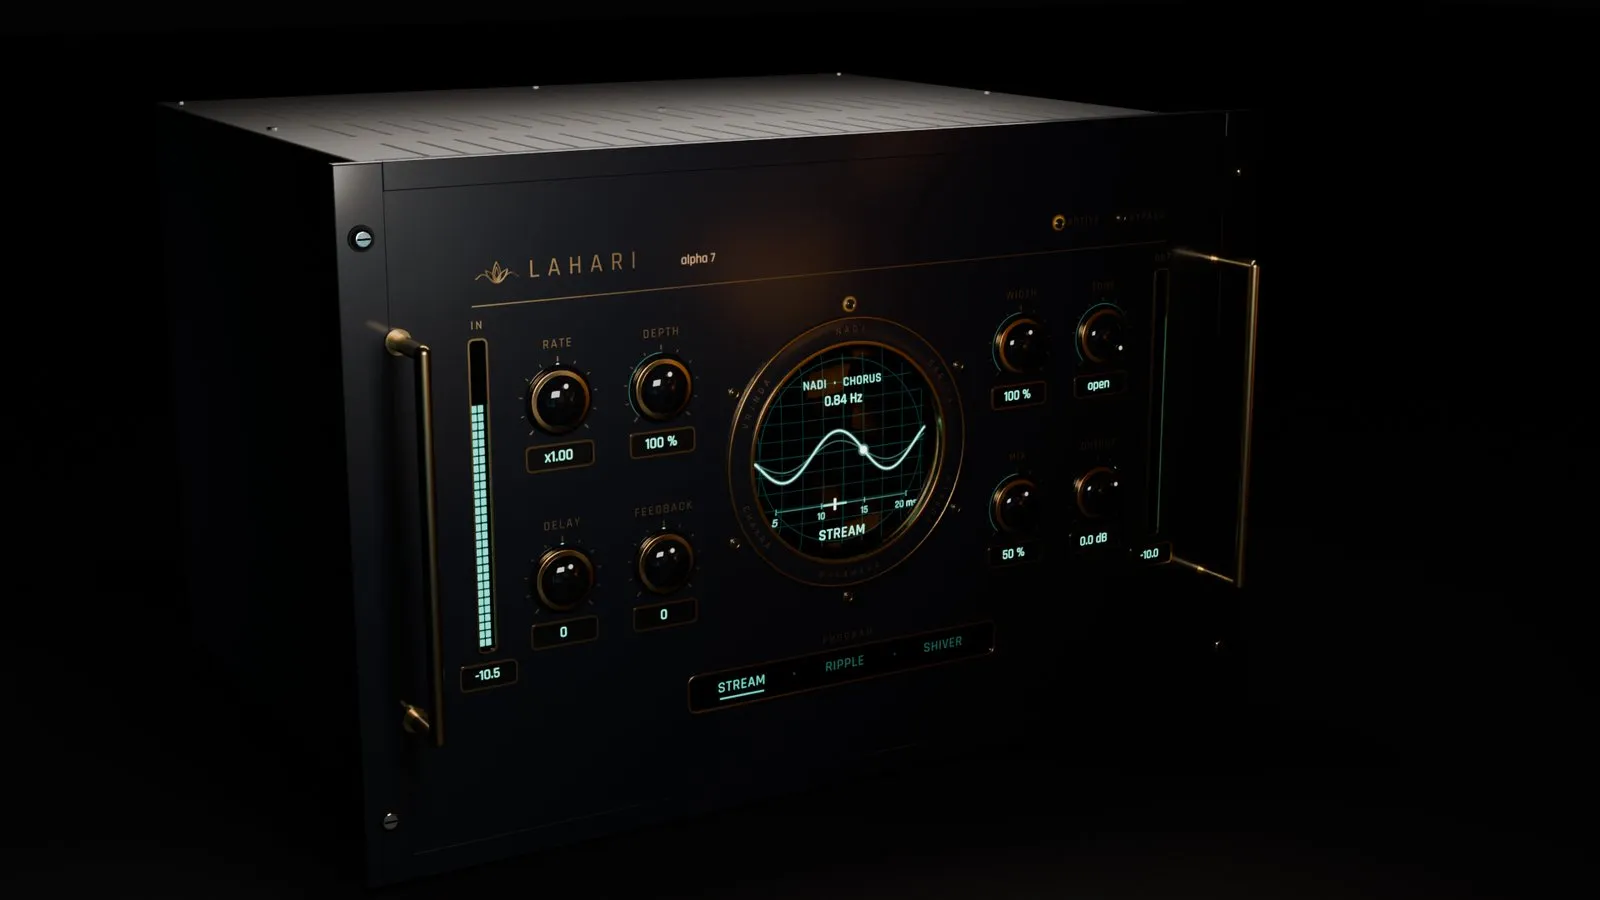
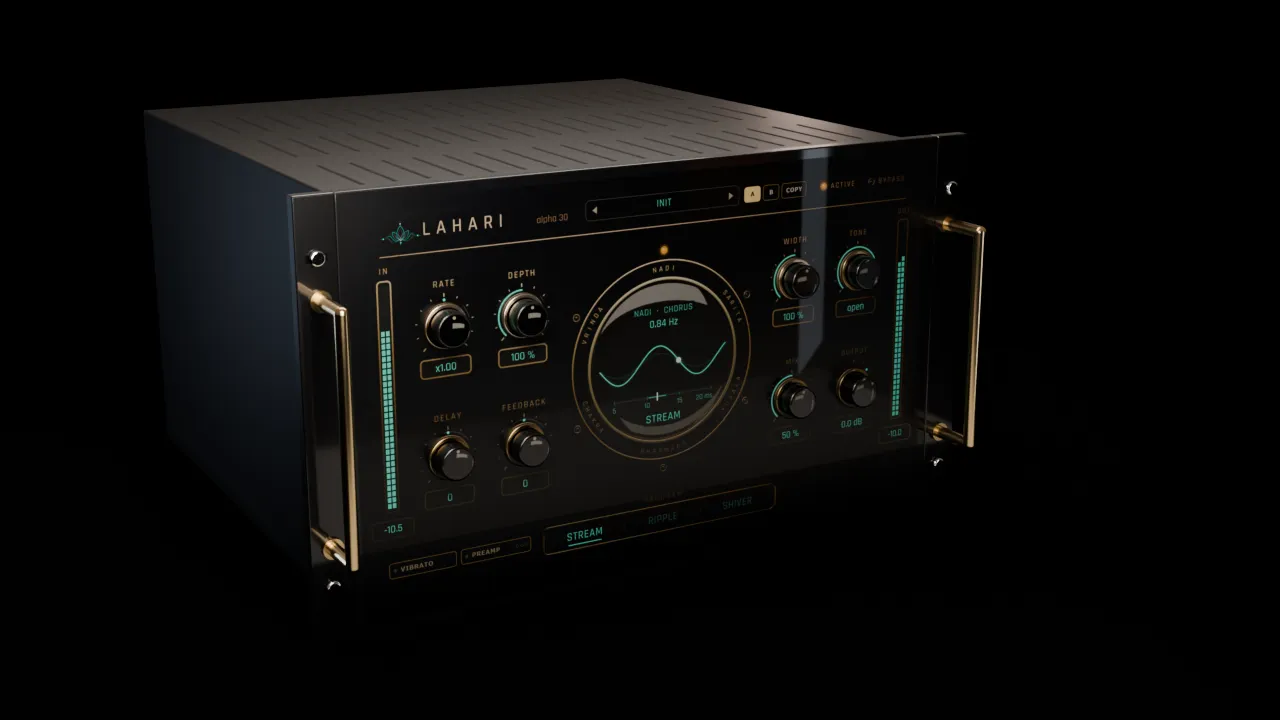
Lahari: Fantasy and Analog rack shots with real knob heights (tools/lahari_rack.py: the 3x capture as the panel, 3D knobs on the printed ones, the Noir rack)

diff --git a/lahari.html b/lahari.html
@@ -20,7 +20,7 @@
 <div class="wrap"><div class="soon-banner" role="note"><b>Coming soon</b><p>Spanda, Ākāśa and Tulā are out first so I can test them properly. Lahari is next.. have a look around, it&#39;s all real, it just isn&#39;t out yet.</p></div></div><div class="wrap stage">
   <header class="hero hero-tight"><span class="eyebrow">Lahari · modulation</span><h1>Chorus, flanger, phaser. <em>Movement, in waves.</em></h1><p>Six modulation units in one plug-in: two choruses, an ensemble, a celeste, a flanger and a phaser. I fitted the choruses, ensemble, celeste and flanger to the chorus sections of classic digital units.. the phaser is my own thing. Every program plays exactly as fitted until you touch a knob.</p>
   <div class="row"><a class="btn solid" href="#inside">Take it apart</a><a class="btn" href="#listen">Listen</a><a class="btn" href="#measurements">Analysis</a></div></header>
-  <figure class="plate photo" style="margin:0"><img src="img/lahari-hero-analog.webp" alt="Lahari in the Fantasy skin, rendered in 3D" width="1600" height="900"></figure><p class="cap">Fantasy skin &middot; 3D render</p><aside class="placard" aria-label="Exhibit label"><span class="no">Exhibit 07 · Audio Citra</span><h2>Lahari</h2><p class="kind">Modulation</p><dl><dt>Status</dt><dd>In the workshop</dd><dt>Contents</dt><dd>6 units · 22 programs · 16 presets</dd></dl><p class="note">Most of it is fitted to classic chorus sections. The phaser is my own, so blame me for that one.</p></aside>
+  <figure class="plate photo" style="margin:0"><img src="img/lahari-hero-analog.webp" alt="Lahari in the Fantasy skin, rendered in 3D" width="1280" height="720"></figure><p class="cap">Fantasy skin &middot; 3D render</p><aside class="placard" aria-label="Exhibit label"><span class="no">Exhibit 07 · Audio Citra</span><h2>Lahari</h2><p class="kind">Modulation</p><dl><dt>Status</dt><dd>In the workshop</dd><dt>Contents</dt><dd>6 units · 22 programs · 16 presets</dd></dl><p class="note">Most of it is fitted to classic chorus sections. The phaser is my own, so blame me for that one.</p></aside>
 </div>
 <div class="td" id="inside" data-teardown="lahari" style="--n:6"></div>
 <section id="try"><div class="wrap"><div class="head"><span class="eyebrow">Try it</span><h2>Your audio, <em>through the presets.</em></h2>
@@ -40,7 +40,7 @@
 </div></section>
 <section id="features"><div class="wrap"><div class="head"><span class="eyebrow">What's in here</span><h2>Six units, <em>one set of hands.</em></h2></div>
   <div class="feats"><div class="feat"><h3>Nadi</h3><p>A chorus with three programs: Stream, Ripple and Shiver.</p><span class="spec">Chorus · 3 programs</span></div><div class="feat"><h3>Sarita</h3><p>A big wide ensemble chorus, three programs, Ensemble I to III.</p><span class="spec">Chorus · 3 programs</span></div><div class="feat"><h3>Yugala</h3><p>A celeste.. that slow, detuned shimmer. Three programs, Shimmer I to III.</p><span class="spec">Celeste · 3 programs</span></div><div class="feat"><h3>Bhramara</h3><p>A flanger with two programs, Sweep I and II. Crank Feedback and it starts to ring all metallic.</p><span class="spec">Flanger · 2 programs</span></div><div class="feat"><h3>Vrinda</h3><p>The newest one: a big ensemble with seven programs, Octet, Drift, Echo, Throng, Weave, Spread and Choir. Lots of modulated taps, an optional amplitude swing and a crossed feedback echo. It gets thick fast.</p><span class="spec">Ensemble · 7 programs</span></div><div class="feat"><h3>Chakra</h3><p>My own phaser. Chains of 4 to 12 allpass stages, swept on a log scale, in four programs from Wheel to Whirl.</p><span class="spec">Phaser · 4 programs</span></div><div class="feat"><h3>Shared controls</h3><p>Rate and Depth scale the program's own values, Delay shifts its base delay or sweep range, and Feedback adds to its loop. Then Tone, Width, Mix and Output. Oversampling goes Off, 2x or 4x.</p><span class="spec">Rate ×0.25–×4 · Depth 0–200%</span></div><div class="feat"><h3>Presets and size</h3><p>16 factory presets to start from: 6 chorus, 3 celeste, 3 flanger and 4 phaser. Click the logo for presets, skin, size (75–200%, or Ctrl +/−) and oversampling.</p><span class="spec">16 presets · 75–200%</span></div></div>
-  <figure class="plate photo" style="margin:0"><img src="img/lahari-hero-pedal.webp" alt="Lahari in the Analog skin, rendered in 3D" width="1600" height="900" loading="lazy"></figure><p class="cap">Analog skin &middot; 3D render</p>
+  <figure class="plate photo" style="margin:0"><img src="img/lahari-hero-pedal.webp" alt="Lahari in the Analog skin, rendered in 3D" width="1280" height="720" loading="lazy"></figure><p class="cap">Analog skin &middot; 3D render</p>
 </div></section>
 <section id="listen"><div class="wrap"><div class="head"><span class="eyebrow">Listen</span><h2>Ok, <em>have a listen.</em></h2>
   <p class="lede">One clip per unit, each on its first program with only the mix set. Flip between Dry and Lahari.. I matched the loudness on both, so you're hearing the movement, not a level jump.</p></div>

diff --git a/tools/lahari_rack.py b/tools/lahari_rack.py
@@ -1,0 +1,201 @@
+"""Lahari as analog rack gear, for the site's hero shots: the editor's own capture as the front panel, real 3D knobs at real height
+standing on the printed ones (each cap carries its own printed top and pointer from the capture), and the Noir rack around it (ears,
+handles, crinkle chassis, the dark studio), as in the Spanda, Agni and Gālana Noir rack shots. Replaces tools/lahari_hero.py's knobs,
+which stood 0.35 x their diameter.
+
+    CAP=<3x capture> SKIN=fantasy|analog [CYCLES_DEVICE=GPU] blender -b -noaudio -t 4 -P lahari_rack.py -- <out.png> <samples> <res_x> <res_y> [hero|right]
+
+The capture: LAHARI_SCALE=3 LahariSnapshot <dir> (SynthLab akasa-vst), one PNG per skin, 2700 x 1680 for the 900 x 560 editor.
+Env: KIT = a folder holding noir_plate_kit.py (default Agni's tools/skins); ROOM = the studio image the lacquer mirrors (default
+Gālana's tools/noir/noir_room.png); KNOBH=old keeps the drawn proportions (0.35 x the diameter)."""
+import bpy, math, os, sys
+import numpy as np
+from mathutils import Vector
+
+argv = sys.argv[sys.argv.index("--") + 1:]
+HOUT, HSAMP, RX, RY = os.path.abspath(argv[0]), int(argv[1]), int(argv[2]), int(argv[3])
+SHOT = argv[4] if len(argv) > 4 else "hero"
+SKIN = os.environ.get("SKIN", "fantasy"); CAP = os.environ["CAP"]
+sys.path.insert(0, os.environ.get("KIT", r"D:\AI\Agni\tools\skins"))
+import noir_plate_kit as K
+W, H = 900, 560
+K.W, K.H = W, H
+P, mat, box, bevel, smooth = K.P, K.mat, K.box, K.bevel, K.smooth
+K.reset()
+sc = bpy.context.scene
+
+# Knobs per skin, editor px: (x, y, skirt radius, cap radius, angle deg). Fantasy: a gold ring round a black glass cap; Analog: a
+# black bakelite body, its pointer moulded in. Angles as captured (the knobs' default values).
+KN = {
+    "fantasy": [(125, 170, 30, 24, 0), (235, 170, 30, 24, 0), (125, 348, 30, 24, 0), (235, 348, 30, 24, 0),
+                (665, 170, 30, 24, 0), (775, 170, 30, 24, 0), (665, 348, 30, 24, 0), (775, 348, 30, 24, 0)],
+    "analog": [(107, 448, 24, 21, 0), (205, 448, 24, 21, 0), (303, 448, 24, 21, 0), (401, 448, 24, 21, 0),
+               (499, 448, 24, 21, 0), (597, 448, 24, 21, 0), (695, 448, 24, 21, 0), (793, 448, 24, 21, 0),
+               (371, 228, 30, 26, 0), (371, 306, 16, 14, 0)],          # the unit selector; LFO Rate
+}[SKIN]
+MM_PER_PX = 483.0 / W                          # the 19-inch face
+def top_units(rs):
+    """the knob's height above the panel (scene units, 100 px = 1): 9 mm + 0.24 x its diameter, held to 12..20 mm"""
+    if os.environ.get("KNOBH") == "old": return 0.7 * rs / 100.0
+    return min(20.0, max(12.0, 9.0 + 0.24 * 2 * rs * MM_PER_PX)) / MM_PER_PX / 100.0
+
+# ---------- the capture ----------
+img = bpy.data.images.load(CAP); cw, chh = img.size
+pxs = np.empty(cw * chh * 4, np.float32); img.pixels.foreach_get(pxs); pxs = pxs.reshape(chh, cw, 4)
+def ring_col(x, y, r0, r1):
+    """median colour of the capture in an annulus (editor px): the printed knob's own side colour"""
+    k = cw / W; yy, xx = np.mgrid[0:chh, 0:cw]; fy = (chh - 1 - yy) / k; fx = xx / k
+    d2 = (fx - x) ** 2 + (fy - y) ** 2; m = (d2 >= r0 * r0) & (d2 <= r1 * r1)
+    return tuple(float(v) for v in np.median(pxs[m][:, :3], axis=0))
+
+def print_mat(name, side, rough=0.3, coat=0.6, metal=0.0, emit=0.0):
+    """the capture on every face that looks up (a knob's top, the panel), a plain side colour on the rest"""
+    m = bpy.data.materials.new(name); m.use_nodes = True; nt = m.node_tree; b = nt.nodes["Principled BSDF"]
+    b.inputs["Roughness"].default_value = rough; b.inputs["Coat Weight"].default_value = coat; b.inputs["Metallic"].default_value = metal
+    t = nt.nodes.new("ShaderNodeTexImage"); t.image = img; t.interpolation = "Cubic"
+    tc = nt.nodes.new("ShaderNodeTexCoord"); sp = nt.nodes.new("ShaderNodeSeparateXYZ"); nt.links.new(tc.outputs["Normal"], sp.inputs[0])
+    mr = nt.nodes.new("ShaderNodeMapRange"); mr.inputs["From Min"].default_value = 0.93; mr.inputs["From Max"].default_value = 0.99
+    nt.links.new(sp.outputs["Z"], mr.inputs["Value"])
+    mx = nt.nodes.new("ShaderNodeMix"); mx.data_type = "RGBA"; nt.links.new(mr.outputs[0], mx.inputs[0])
+    mx.inputs[6].default_value = (*side, 1); nt.links.new(t.outputs["Color"], mx.inputs[7]); nt.links.new(mx.outputs[2], b.inputs["Base Color"])
+    if emit:
+        e = nt.nodes.new("ShaderNodeMath"); e.operation = "MULTIPLY"; e.inputs[1].default_value = emit; nt.links.new(mr.outputs[0], e.inputs[0])
+        nt.links.new(t.outputs["Color"], b.inputs["Emission Color"]); nt.links.new(e.outputs[0], b.inputs["Emission Strength"])
+    return m
+def planar_uv(o):
+    uv = o.data.uv_layers[0] if o.data.uv_layers else o.data.uv_layers.new()
+    for poly in o.data.polygons:
+        for li in poly.loop_indices:
+            v = o.matrix_world @ o.data.vertices[o.data.loops[li].vertex_index].co
+            uv.data[li].uv = (v.x / (W / 100) + 0.5, v.y / (H / 100) + 0.5)
+
+# ---------- the panel: the capture, lit a little so displays and lamps read ----------
+PW, PH = W / 100 + 0.3, H / 100 + 0.3
+M_FACE = print_mat("face", (0.01, 0.01, 0.012), rough=0.42, coat=0.15 if SKIN == "fantasy" else 0.1, emit=0.12)
+M_EDGE = mat("panel_edge", ring_col(450, 548, 0, 6) if SKIN == "analog" else (0.012, 0.012, 0.016), rough=0.4, coat=0.5)
+edge = box(0, 0, PW, PH, -0.2, -0.002); edge.data.materials.append(M_EDGE); bevel(edge, 0.02, 3, 40)
+bpy.ops.mesh.primitive_plane_add(size=1, location=(0, 0, 0)); face = bpy.context.object
+face.scale = (W / 100, H / 100, 1); bpy.ops.object.transform_apply(scale=True); face.data.materials.append(M_FACE); planar_uv(face)
+
+# ---------- the knobs ----------
+for (x, y, rs, rc, deg) in KN:
+    cx, cy = P(x, y); R_s, R_c = rs / 100.0, rc / 100.0; top = top_units(rs)
+    side = ring_col(x, y, rc * 0.82, rc * 0.98)
+    m = print_mat("knob", tuple(v * 0.9 for v in side), rough=0.3, coat=0.7)
+    hs = min(top * 0.22, 0.06)                                         # the skirt (the printed ring round the cap stands with it)
+    bpy.ops.mesh.primitive_cylinder_add(vertices=160, radius=R_s, depth=hs, location=(cx, cy, hs / 2)); s = bpy.context.object
+    s.data.materials.append(print_mat("skirt", ring_col(x, y, rc * 1.05, rs * 0.95), rough=0.28, coat=0.4,
+                                      metal=0.9 if SKIN == "fantasy" else 0.0)); bevel(s, R_s * 0.06, 3); smooth(s); planar_uv(s)
+    bpy.ops.mesh.primitive_cylinder_add(vertices=160, radius=R_c, depth=top - hs, location=(cx, cy, hs + (top - hs) / 2)); k = bpy.context.object
+    k.data.materials.append(m); bevel(k, R_c * 0.16, 8); smooth(k); planar_uv(k)
+
+# ---------- the rack: ears, handles, crinkle chassis (the Noir rack shots, scaled to this face) ----------
+U = W / 1280.0                                 # the Noir rack's parts were sized for a 1280 px face
+EAR, CD = 0.78 * U, 13.0 * U
+M_PLATE = mat("lacquer", (0.010, 0.010, 0.013), rough=0.4, coat=1.0, coat_rough=0.07)
+M_TRIM = mat("trim", (0.80, 0.62, 0.36), metal=1.0, rough=0.25) if SKIN == "fantasy" else mat("trim", (0.9, 0.9, 0.92), metal=1.0, rough=0.14)
+M_CHROME = mat("chrome", (0.9, 0.9, 0.92), metal=1.0, rough=0.12); M_HOLE = mat("hole", (0, 0, 0), rough=0.9); M_RUBBER = mat("rubber", (0.01, 0.01, 0.01), rough=0.8)
+M_CRINKLE = mat("crinkle", (0.010, 0.010, 0.011), rough=0.55)
+nt = M_CRINKLE.node_tree; bs = nt.nodes["Principled BSDF"]
+nz = nt.nodes.new("ShaderNodeTexNoise"); nz.inputs["Scale"].default_value = 260; nz.inputs["Detail"].default_value = 6
+bp = nt.nodes.new("ShaderNodeBump"); bp.inputs["Strength"].default_value = 0.35
+nt.links.new(nz.outputs["Fac"], bp.inputs["Height"]); nt.links.new(bp.outputs["Normal"], bs.inputs["Normal"])
+def cyl(r, dd, loc, rot=(0, 0, 0), m=None, v=96):
+    bpy.ops.mesh.primitive_cylinder_add(vertices=v, radius=r, depth=dd, location=loc, rotation=rot); o = bpy.context.object
+    if m: o.data.materials.append(m)
+    smooth(o); return o
+for sx in (-1, 1):
+    ex = sx * (PW / 2 + EAR / 2 - 0.01)
+    ear = box(ex, 0, EAR, PH, -0.2, 0.0); ear.data.materials.append(M_PLATE); bevel(ear, 0.03 * U, 3, 40)
+    for hy in (-PH / 2 + 0.8 * U * 1.4, PH / 2 - 0.8 * U * 1.4):
+        slot = box(ex, hy, 0.46 * U, 0.2 * U, -0.05, 0.001); slot.data.materials.append(M_HOLE); bevel(slot, 0.09 * U, 6, 30)
+        hd = cyl(0.15 * U, 0.09 * U, (ex, hy, 0.045 * U), m=M_CHROME); bevel(hd, 0.05 * U, 6)
+    hx = sx * (PW / 2 + EAR * 0.45); L = PH * 0.55; OUTZ = 1.05 * U
+    for hy in (-L / 2, L / 2):
+        cyl(0.13 * U, OUTZ, (hx, hy, OUTZ / 2), m=M_TRIM); cyl(0.2 * U, 0.08 * U, (hx, hy, 0.04 * U), m=M_TRIM)
+        bpy.ops.mesh.primitive_uv_sphere_add(segments=48, ring_count=24, radius=0.13 * U, location=(hx, hy, OUTZ))
+        bpy.context.object.data.materials.append(M_TRIM); smooth(bpy.context.object)
+    cyl(0.13 * U, L, (hx, 0, OUTZ), rot=(math.pi / 2, 0, 0), m=M_TRIM)
+CW, CH = PW - 0.25 * U, PH - 0.3 * U
+chs = box(0, 0, CW, CH, -0.2 - CD, -0.2); chs.data.materials.append(M_CRINKLE); bevel(chs, 0.05 * U, 4, 40)
+TOPY = CH / 2
+for row in range(3):
+    zc = -0.2 - CD * (0.17 + row * 0.28)
+    for i in range(18):
+        x = -CW / 2 + 0.9 * U + i * (CW - 1.8 * U) / 17
+        s = box(x, TOPY - 0.03 * U, 0.12 * U, 0.08 * U, zc - 1.2 * U, zc + 1.2 * U); s.data.materials.append(M_HOLE); bevel(s, 0.05 * U, 4, 30)
+for sx in (-1, 1):
+    for z in (-1.4 * U, -0.2 - CD + 1.2 * U):
+        cyl(0.42 * U, 0.22 * U, (sx * (CW / 2 - 1.2 * U), -CH / 2 - 0.11 * U, z), rot=(math.pi / 2, 0, 0), m=M_RUBBER)
+
+# ---------- light and room (the Noir rack shots' studio) ----------
+K.room_and_lights(os.environ.get("ROOM", r"D:\AI\Galana\tools\noir\noir_room.png"), 4.0 * U, (1.0, 0.8, 0.62))
+for o in bpy.data.objects:
+    if o.type != "LIGHT": continue
+    o.visible_camera = False
+    if o.data.name == "cool": o.data.energy = 0
+    if o.data.name == "key": o.location = (-7 * U, 9 * U, 9 * U); o.data.energy = 900 * U * U; o.rotation_euler = (math.radians(-35), math.radians(-25), 0)
+for o in bpy.data.objects:
+    if o.active_material is not None and o.active_material.name == "room": o.active_material.node_tree.nodes["Emission"].inputs["Strength"].default_value = 0.35
+
+rig = bpy.data.objects.new("rig", None); bpy.context.collection.objects.link(rig)
+for o in list(bpy.data.objects):
+    if o is not rig and o.parent is None: o.parent = rig
+rig.rotation_euler = (math.pi / 2, 0, 0)
+FLOOR = -CH / 2 - 0.22 * U
+rig.location = (0, 0, -FLOOR)
+M_GROUND = mat("ground", (0.006, 0.005, 0.006), rough=0.6); M_GROUND.node_tree.nodes["Principled BSDF"].inputs["Specular IOR Level"].default_value = 0.0
+bpy.ops.mesh.primitive_plane_add(size=300, location=(0, 0, 0)); bpy.context.object.data.materials.append(M_GROUND)
+def warea(name, loc, size, power, color, target=(0, 6, 3)):
+    loc = tuple(v * U for v in loc); target = tuple(v * U for v in target)
+    dl = bpy.data.lights.new(name, "AREA"); dl.shape = "RECTANGLE"; dl.size = size[0] * U; dl.size_y = size[1] * U; dl.energy = power * U * U; dl.color = color
+    o = bpy.data.objects.new(name, dl); o.location = loc; bpy.context.collection.objects.link(o); o.visible_camera = False
+    o.rotation_euler = (Vector(target) - Vector(loc)).to_track_quat("-Z", "Y").to_euler(); return o
+warea("top", (0, 6, 16), (16, 10), 2000, (1.0, 0.93, 0.85))
+warea("rimR", (16, 18, 7), (2, 9), 900, (1.0, 0.75, 0.65))
+warea("rimL", (-16, 14, 5), (2, 7), 350, (0.6, 0.75, 1.0))
+sc.view_settings.exposure = float(os.environ.get("EXPOSURE", "0.35"))
+def card(loc, size, strength, warm=(1.0, 0.9, 0.78)):
+    loc = tuple(v * U for v in loc)
+    bpy.ops.mesh.primitive_plane_add(size=1, location=loc); c = bpy.context.object; c.scale = (size[0] * U, size[1] * U, 1)
+    c.rotation_euler = (math.pi / 2, 0, math.atan2(-loc[0], -loc[1]) if loc[1] else 0)
+    m = bpy.data.materials.new("card"); m.use_nodes = True; nt = m.node_tree
+    for n in list(nt.nodes): nt.nodes.remove(n)
+    e = nt.nodes.new("ShaderNodeEmission"); e.inputs[0].default_value = (*warm, 1); e.inputs[1].default_value = strength
+    o = nt.nodes.new("ShaderNodeOutputMaterial"); lp_ = nt.nodes.new("ShaderNodeLightPath"); tr_ = nt.nodes.new("ShaderNodeBsdfTransparent"); mx_ = nt.nodes.new("ShaderNodeMixShader")
+    nt.links.new(lp_.outputs["Is Glossy Ray"], mx_.inputs[0]); nt.links.new(tr_.outputs[0], mx_.inputs[1]); nt.links.new(e.outputs[0], mx_.inputs[2])
+    nt.links.new(mx_.outputs[0], o.inputs[0]); c.data.materials.append(m)
+    c.visible_camera = False; c.visible_diffuse = False; c.visible_shadow = False; return c
+card((-9, -15, 9), (11, 7), 8.0); card((12, -12, 5), (4, 10), 5.0, (0.8, 0.88, 1.0))
+card((0.5, -7.5, 0.02), (22, 7), 0.6).rotation_euler = (0, 0, 0)
+wn = sc.world.node_tree; N = wn.nodes; Lk = wn.links
+bg = N["Background"]; lp = N.new("ShaderNodeLightPath"); env = N.new("ShaderNodeBackground"); env.inputs[0].default_value = (0.55, 0.45, 0.36, 1)
+mxw = N.new("ShaderNodeMixShader"); Lk.new(lp.outputs["Is Glossy Ray"], mxw.inputs[0]); Lk.new(bg.outputs[0], mxw.inputs[1]); Lk.new(env.outputs[0], mxw.inputs[2])
+Lk.new(mxw.outputs[0], N["World Output"].inputs["Surface"])
+tcw = N.new("ShaderNodeTexCoord"); spw = N.new("ShaderNodeSeparateXYZ"); mrw = N.new("ShaderNodeMapRange")
+mrw.inputs["From Min"].default_value = -0.6; mrw.inputs["From Max"].default_value = 0.9; mrw.inputs["To Min"].default_value = 0.06; mrw.inputs["To Max"].default_value = 0.35
+Lk.new(tcw.outputs["Generated"], spw.inputs[0]); Lk.new(spw.outputs["Z"], mrw.inputs["Value"]); Lk.new(mrw.outputs["Result"], env.inputs[1])
+
+# ---------- camera ----------
+cd = bpy.data.cameras.new("cam"); cd.dof.use_dof = True
+cam = bpy.data.objects.new("cam", cd); bpy.context.collection.objects.link(cam); sc.camera = cam
+CZ = -FLOOR
+if SHOT == "hero":
+    cd.lens = 50; cam.location = Vector((-17.0 * U, -29.0 * U, 14.0 * U)); target = Vector((0.6 * U, 2.0 * U, CZ - 0.3 * U)); cd.dof.aperture_fstop = 8
+else:
+    cd.lens = 40; cam.location = Vector((17.0 * U, -24.0 * U, 5.0 * U)); target = Vector((-0.6 * U, 2.0 * U, CZ + 0.3 * U)); cd.dof.aperture_fstop = 8
+cam.rotation_euler = (target - cam.location).to_track_quat("-Z", "Y").to_euler()
+cd.dof.focus_distance = (target - cam.location).length
+
+sc.render.engine = "CYCLES"; sc.cycles.samples = HSAMP; sc.cycles.use_denoising = True; sc.cycles.use_adaptive_sampling = True
+sc.cycles.sample_clamp_indirect = 3.0
+sc.cycles.device = "CPU"; sc.render.threads_mode = "FIXED"; sc.render.threads = 4
+if os.environ.get("CYCLES_DEVICE") == "GPU":
+    cp = bpy.context.preferences.addons["cycles"].preferences; cp.compute_device_type = "OPTIX"; cp.get_devices()
+    for dv in cp.devices: dv.use = dv.type == "OPTIX"
+    sc.cycles.device = "GPU"
+sc.render.resolution_x, sc.render.resolution_y = RX, RY; sc.render.resolution_percentage = 100
+sc.view_settings.view_transform = "AgX"; sc.view_settings.look = "AgX - Medium High Contrast"
+sc.render.image_settings.file_format = "PNG"; sc.render.image_settings.color_mode = "RGB"
+sc.render.filepath = HOUT
+bpy.ops.render.render(write_still=True)
